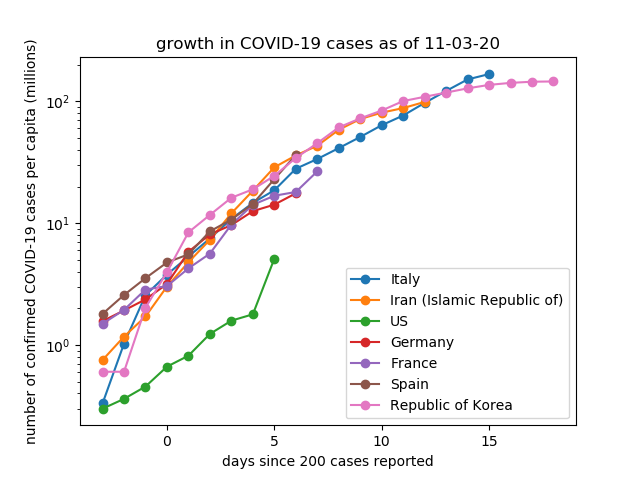
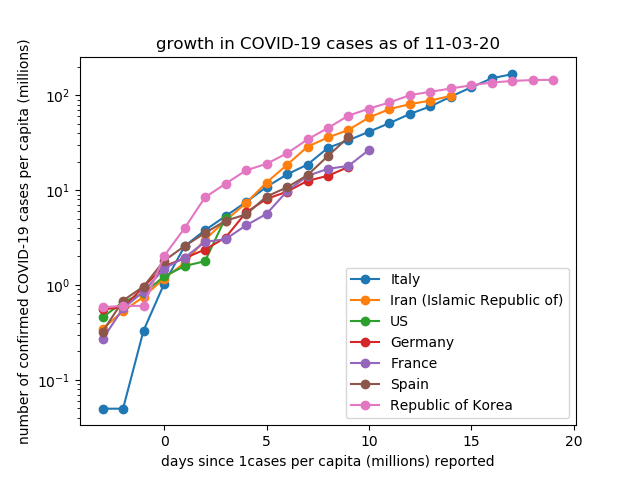
Updated per capita thresholding

diff --git a/covid.py b/covid.py
@@ -33,7 +33,11 @@ def plot_confirmed_cases(country_info,country_list):
 # plot the number of confirmed cases shifted by days since THRESH cases
 # (OPTIONAL: date_offset lets you start plotting a few days before this convergence)
 def plot_confirmed_cases_by_thresh(country_info,country_list,case_thresh,date_offset=0,per_capita=None):
-	start_date = [np.where(ci > case_thresh)[0][0] + date_offset for ci in country_info.T]
+	if per_capita is None:
+		start_date = [np.where(ci > case_thresh)[0][0] + date_offset for ci in country_info.T]
+	else:
+		start_date = [np.where(ci/per_capita[ind] > case_thresh)[0][0] + date_offset for ind,ci in enumerate(country_info.T)]
+
 	end_date = country_info.shape[0]
 
 	shape_length = end_date - np.min(start_date) - date_offset
@@ -52,11 +56,12 @@ def plot_confirmed_cases_by_thresh(country_info,country_list,case_thresh,date_of
 	plt.semilogy(range(date_offset,end_date - np.min(start_date)),shaped_data.T, marker='o')
 	# sns.lineplot(shaped_data.T)
 	plt.legend(country_list)
-	plt.xlabel('days since ' + str(case_thresh) + ' cases reported')
 	if per_capita is None:
 		plt.ylabel('number of confirmed COVID-19 cases')
+		plt.xlabel('days since ' + str(case_thresh) + ' cases reported')
 	else:
 		plt.ylabel('number of confirmed COVID-19 cases per capita (millions)')
+		plt.xlabel('days since ' + str(case_thresh) + 'cases per capita (millions) reported')
 	plt.title('growth in COVID-19 cases as of 11-03-20')
 	plt.show()
 
@@ -69,5 +74,6 @@ if __name__=='__main__':
 
 	# plot_confirmed_cases(country_info,country_list)
 	# plot_confirmed_cases_by_thresh(country_info,country_list,case_thresh=200,date_offset=-3)
-	plot_confirmed_cases_by_thresh(country_info,country_list,case_thresh=200,date_offset=-3,per_capita=country_pop)
+	# plot_confirmed_cases_by_thresh(country_info,country_list,case_thresh=200,date_offset=-3)
+	plot_confirmed_cases_by_thresh(country_info,country_list,case_thresh=1,date_offset=-3,per_capita=country_pop)
 
